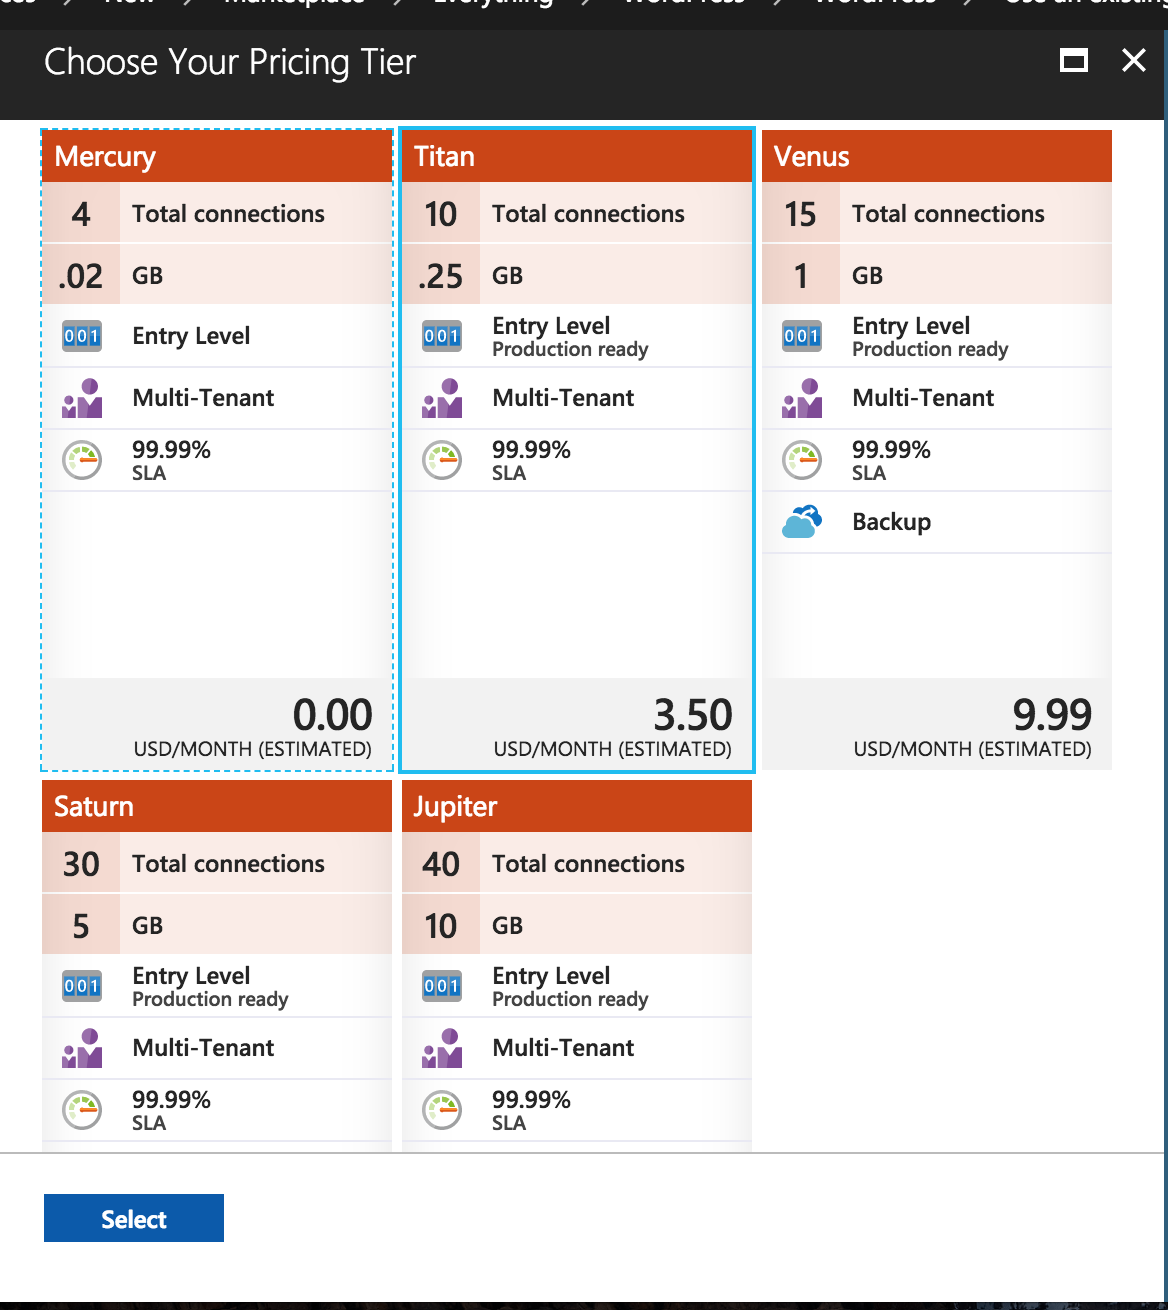
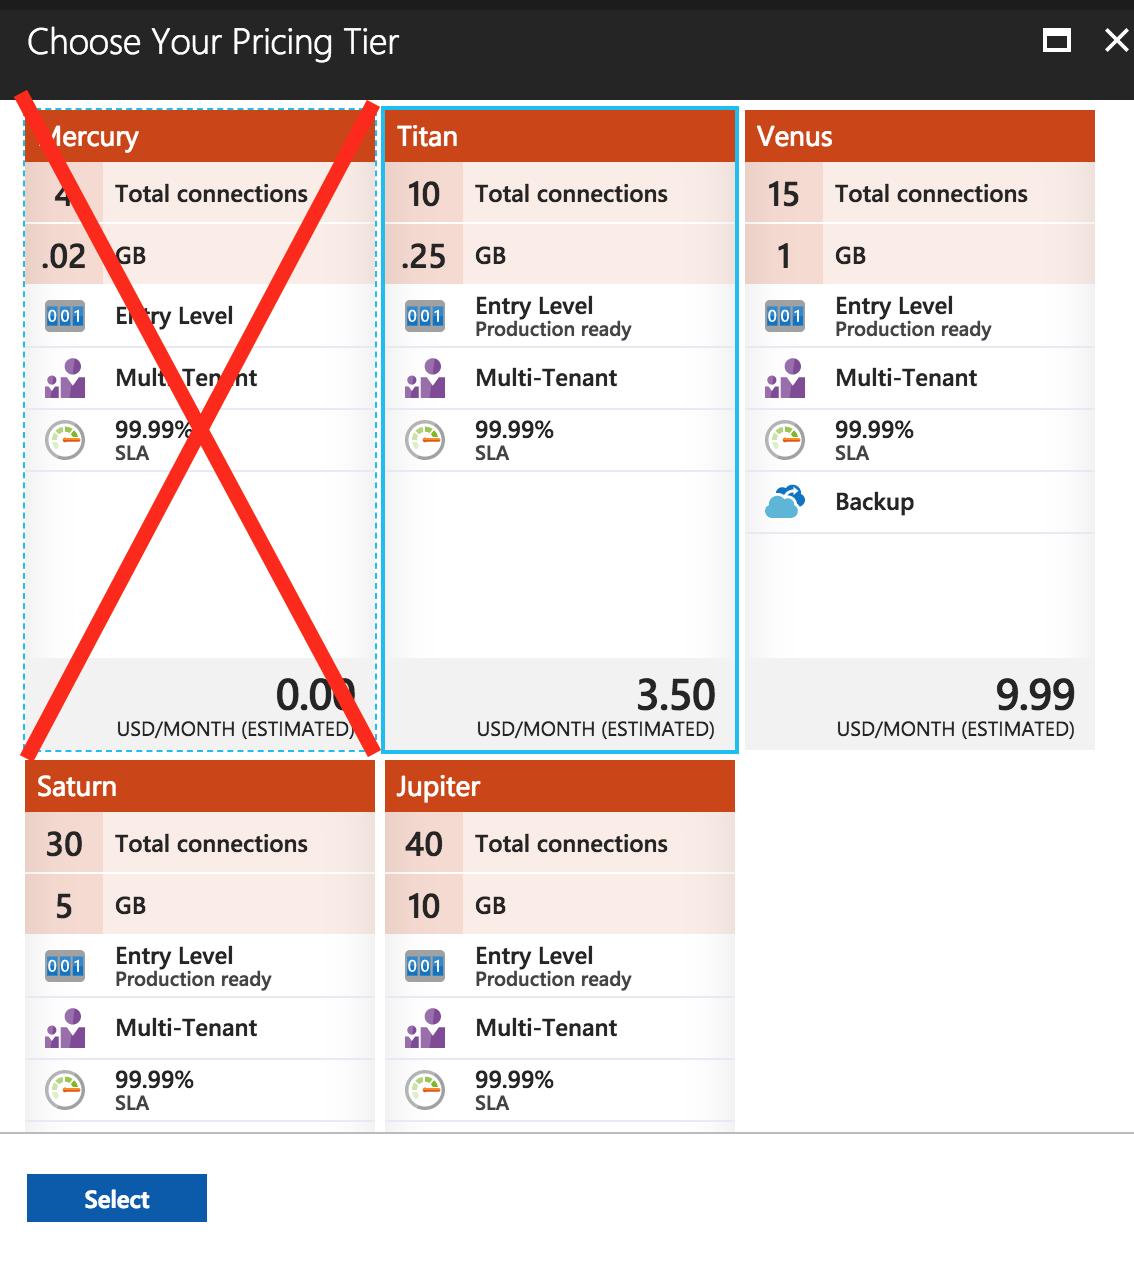
Wordpress screenshotys

Changed region(s): [[0.0, 0.0, 1.0, 1.0], [0.7407, 0.5184, 0.9568, 0.5794], [0.4321, 0.6403, 0.5864, 0.6708]]

diff --git a/_drafts/2017-11-26-Moving-Non-Profit-Wordpress-Site-to-Azure-(For-Free!).md b/_drafts/2017-11-26-Moving-Non-Profit-Wordpress-Site-to-Azure-(For-Free!).md
@@ -59,8 +59,31 @@ Azure is going to ask you for a bunch of parameters. It looks more complicated t
 
 ![Wordpress Settings](https://blog.benjamin-hering.com/images/azure-wordpress/azure-wordpress-creation-parameters.png)
 
-For App Service plan / Location you'll be choosing what raw hardware in what location you want behind your application. For my site, I chose the P1V2 service plan as it was the cheapest with solid state drives for the storage. ~$205 per month is certainly pricy if we were paying out of pocket, and will eat up about half of our sponsorship, but you can certainly experiment with smaller app sizes if you wish. Note that the Premium V2 service plans (with SSD) are only available in certain regions. South Central US is one, and is closer to our main office than the coasts, but the specific US region doesn't matter too much.
+For App Service plan / Location you'll be choosing what raw hardware in what location you want behind your application. For my site, I chose the P1V2 service plan as it was the cheapest with solid state drives for the storage. ~$205 per month is certainly pricy if we were paying out of pocket, and will eat up about half of our sponsorship, but you can certainly experiment with smaller app sizes if you wish. Note that the Premium V2 service plans (with SSD) are only available in certain regions. South Central US is one, and is closer to our main office than the coasts, but the specific US region doesn't matter too much. Pricing is slightly different in different places, but it's all with 5% or so of each other. Again, the naming of the service plan isn't too important, but remember what region you placed it in.
+
+Note that if you have multiple websites, you can put them all in the same service plan so long as there's enough free CPU and memory to cover them all.
 
 ![Wordpress Settings](https://blog.benjamin-hering.com/images/azure-wordpress/azure-app-service-plan.png)
 
+![Wordpress Settings](https://blog.benjamin-hering.com/images/azure-wordpress/azure-premium-v2.png)
+
+When you click on the database, and hit "create new" you'll get a bunch of settings for your new MySQL database. Again, it looks more complicated than it is.
+
+* Database Name - Doesn't really matter. Call it whatever you want.
+* Location - **Make sure this is the same region as the app service plan!** If your app service plan is South Central US, put this to South Central US. If you're in West US 2, but the database in West US 2. If they aren't in the same geographic location, every call to the database will have an additional amount of delay as the call goes to a different datacenter. You want it close and fast
+
 ![ClearDB Settings](https://blog.benjamin-hering.com/images/azure-wordpress/azure-mysql-database-creation.png)
+
+* Pricing Tier - **Don't choose Mercury!** Yes it's free, but notice the lack of "Production Ready" fine print. Even for my development sites, I got database connection errors in Mercury just when I was the only one playing around with it. Titan level database is probably okay for most sites and what I chose for my own. Don't worry, you can always bump it up to something more powerful if you need to.
+
+![ClearDB Pricing](https://blog.benjamin-hering.com/images/azure-wordpress/azure-clear-db-pricing.png)
+
+* Legal Terms - You'll just have to click on them to accept them.
+
+Once all these parameters are in place, you can hit the "create" button for the database and the "create" button for the Wordpress app itself. Go get a cup of coffee and come back in a little bit.
+
+## We got WordPress, now what?
+
+So once Azure is done spinning up all the building blocks
+
+![WordPress Install](https://blog.benjamin-hering.com/images/azure-wordpress/wordpress-install-language.png)
